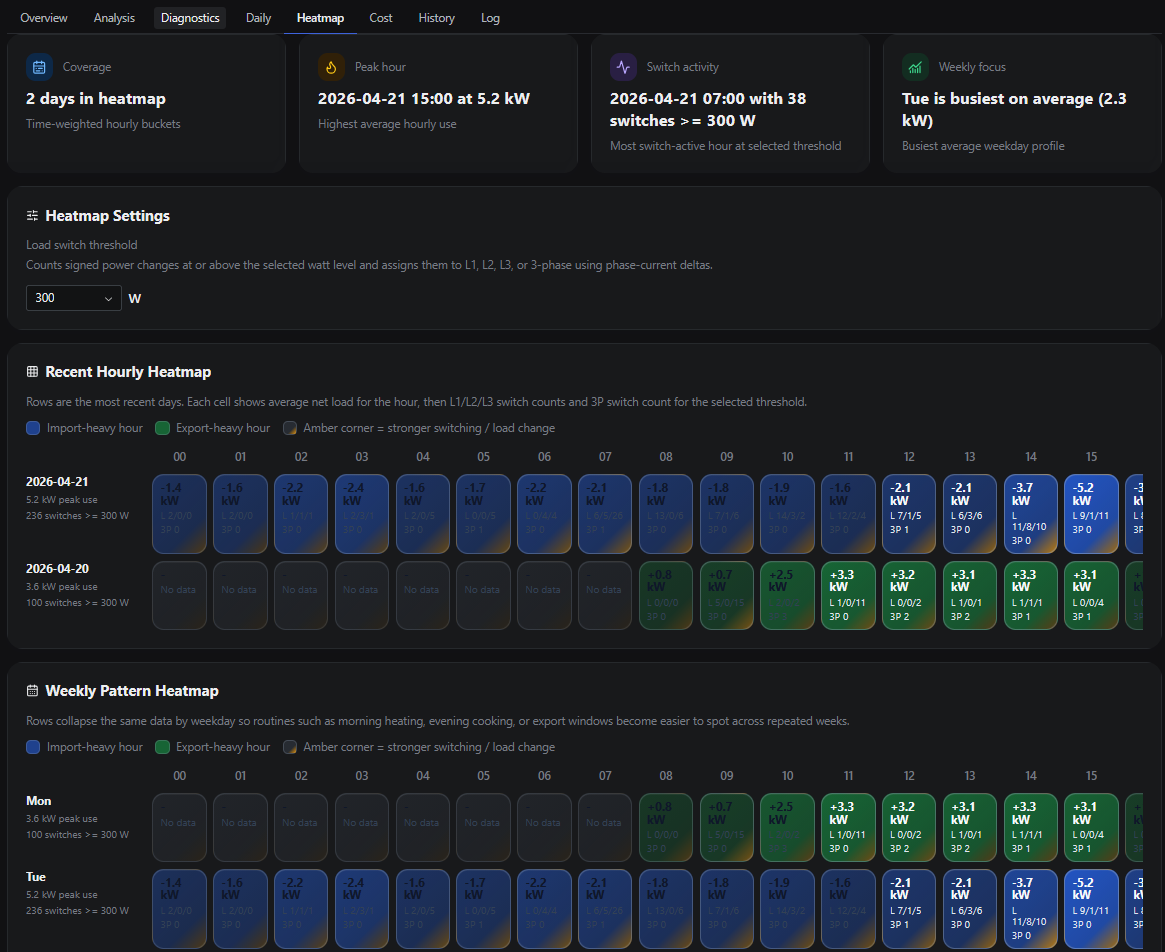
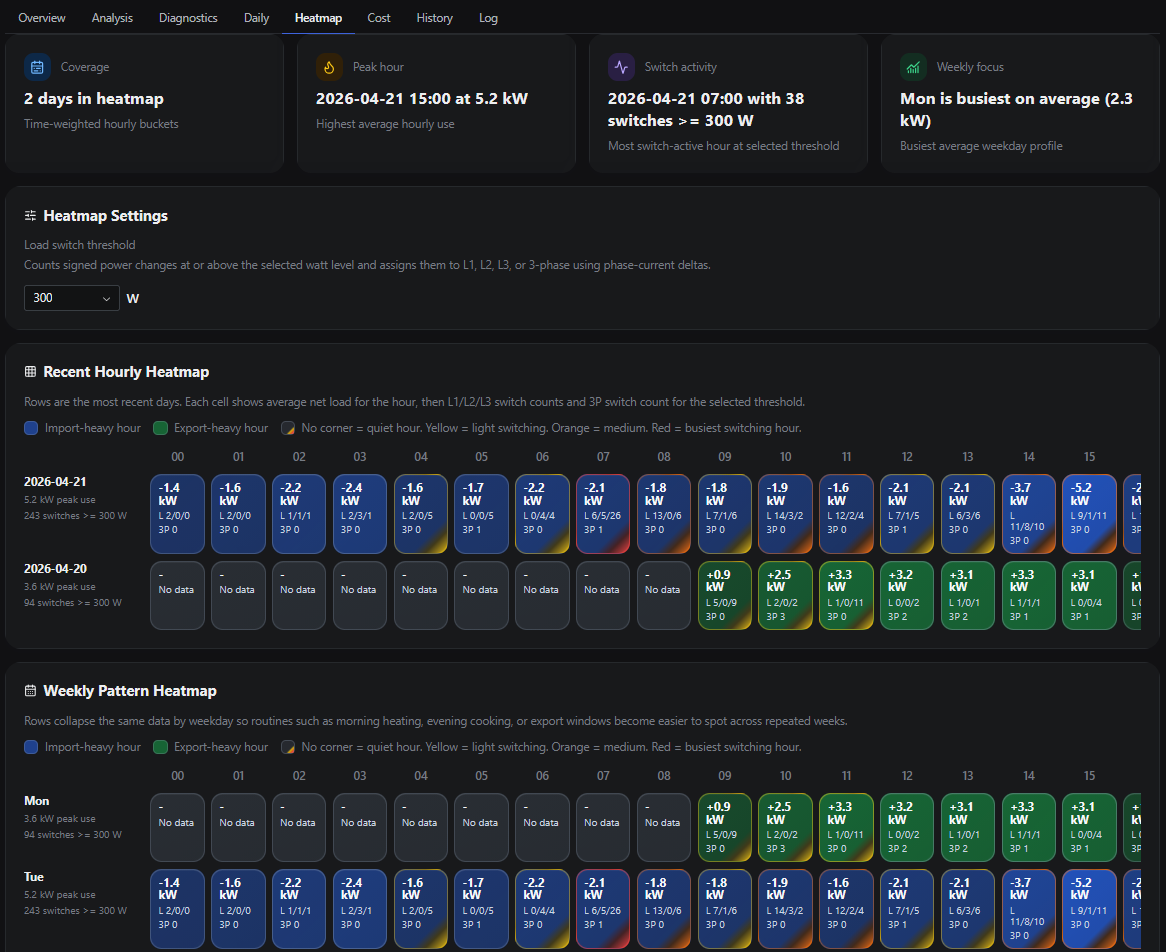
Refresh README heatmap screenshot

diff --git a/README.md b/README.md
@@ -137,7 +137,7 @@ How to read each heatmap cell:
 - `L x/y/z` is the count of **load switches assigned to `L1/L2/L3`** in that hour.
 - `3P n` is the count of **balanced 3-phase switch events** in that hour.
 - The **blue/green background** shows whether the hour was import-heavy or export-heavy overall.
-- The **amber corner** shows stronger switching activity during that hour.
+- The **corner accent** is hidden for quiet hours, then steps from **yellow** to **orange** to **red** as switching activity increases.
 
 The `Load switch threshold` dropdown controls which signed power changes are counted as switches. The default is `300 W`, but the user can raise or lower the threshold from `100 W` to `1500 W` depending on whether the goal is to catch small appliance changes or only larger load steps.
 
